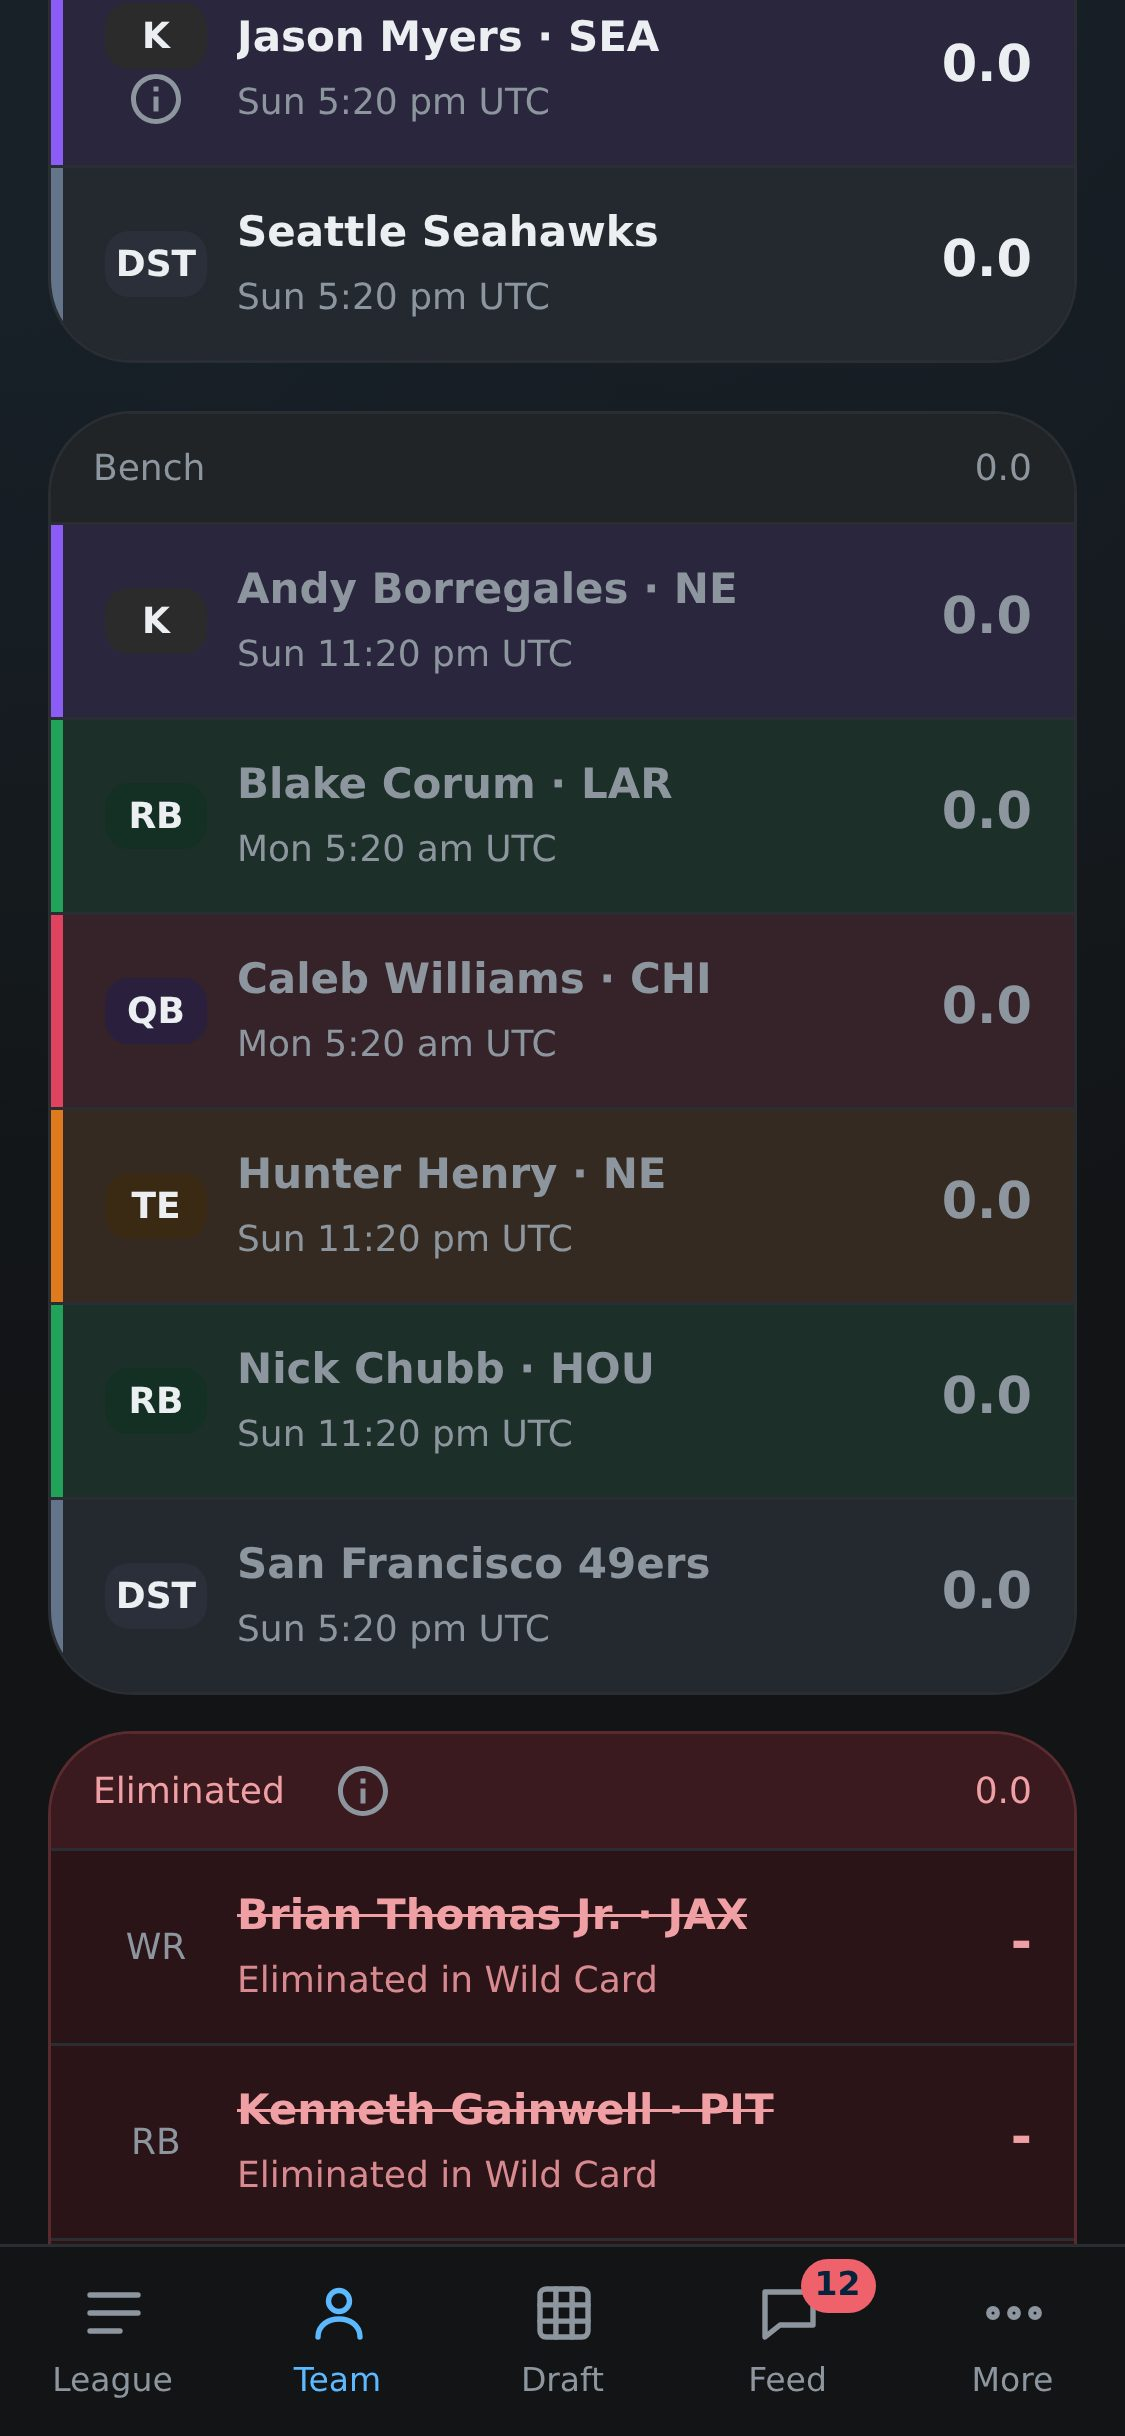
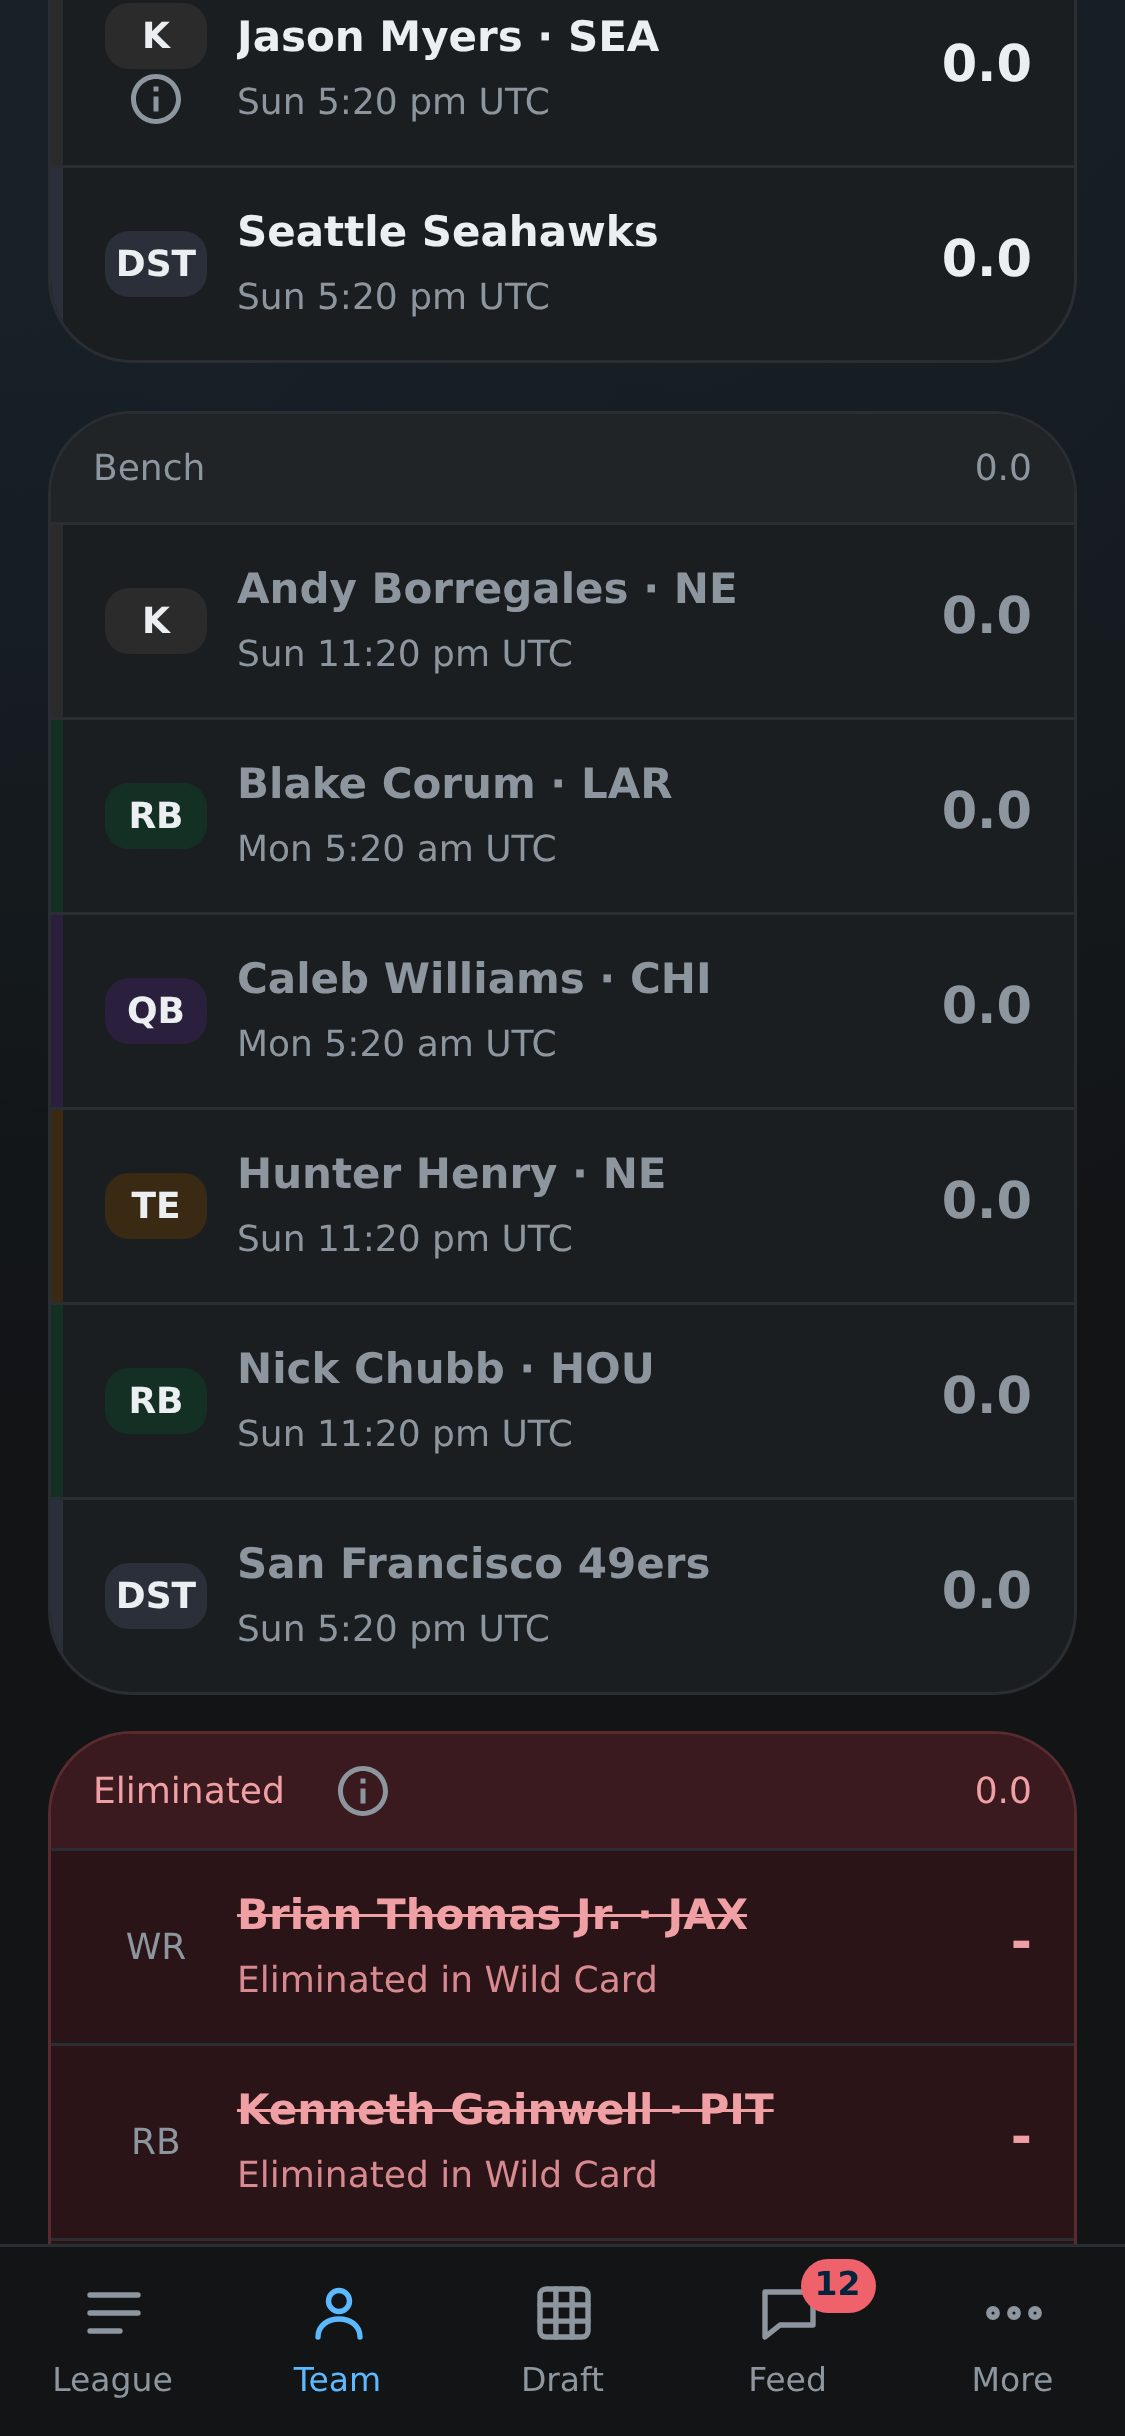
Team page: position boxes on every lineup row and a matching left edge
Empty starter slots show their position in the same coloured box as filled
rows, and each filled row gets a 4px left edge in its position's board
colour. Drops the row wash and bright edge tokens from the earlier try.

Changed region(s): [[0.0311, 0.2184, 0.9644, 0.6864], [0.0311, 0.0, 0.9644, 0.1248]]

diff --git a/frontend/src/components/team/PlayerRow.tsx b/frontend/src/components/team/PlayerRow.tsx
@@ -6,7 +6,7 @@ import ChangedScore from "../activity/ChangedScore";
 import SlotMarker from "../activity/SlotMarker";
 import HelpTip from "../common/HelpTip";
 import InjuryTag from "../common/InjuryTag";
-import { positionChipSx, positionEdgeColor, positionRowColor } from "../draft/positions";
+import { positionChipSx, positionColor } from "../draft/positions";
 import { formatPoints } from "../league/standingsView";
 import { nameWithTeam, playerDetail, type RowState, rowState } from "./lineupView";
 
@@ -55,7 +55,6 @@ const PlayerRow = ({
   const colors = COLORS[state];
   const muted = bench && state === "ready";
   const eliminated = state === "eliminated";
-  const tint = player && !eliminated ? positionRowColor(player.position) : "transparent";
   return (
     <Box component="li" sx={{ borderTop: `1px solid ${tokens.border}` }}>
       <Box
@@ -63,8 +62,8 @@ const PlayerRow = ({
           position: "relative",
           display: "flex",
           alignItems: "center",
-          bgcolor: eliminated ? tokens.dangerSurface : tint,
-          borderLeft: `4px solid ${player && !eliminated ? positionEdgeColor(player.position) : "transparent"}`,
+          bgcolor: eliminated ? tokens.dangerSurface : "transparent",
+          borderLeft: `4px solid ${player && !eliminated ? positionColor(player.position) : "transparent"}`,
         }}
       >
         <ButtonBase
@@ -103,8 +102,8 @@ const PlayerRow = ({
               fontSize: 12,
               textAlign: "center",
               color: player ? colors.label : tokens.muted,
-              ...(player && !eliminated
-                ? { ...positionChipSx(player.position), px: 0, py: 0.25 }
+              ...(!eliminated
+                ? { ...positionChipSx(player ? player.position : label), px: 0, py: 0.25 }
                 : {}),
             }}
           >
@@ -130,12 +129,7 @@ const PlayerRow = ({
               <Typography
                 noWrap
                 component="span"
-                sx={{
-                  display: "block",
-                  fontSize: 12,
-                  mt: 0.125,
-                  color: colors.detail,
-                }}
+                sx={{ display: "block", fontSize: 12, mt: 0.125, color: colors.detail }}
               >
                 {playerDetail(player)}
               </Typography>

diff --git a/frontend/src/theme.ts b/frontend/src/theme.ts
@@ -52,18 +52,6 @@ interface Palette {
   posTE: string;
   posK: string;
   posDST: string;
-  rowQB: string;
-  edgeQB: string;
-  rowRB: string;
-  edgeRB: string;
-  rowWR: string;
-  edgeWR: string;
-  rowTE: string;
-  edgeTE: string;
-  rowK: string;
-  edgeK: string;
-  rowDST: string;
-  edgeDST: string;
 }
 
 /** The Claude Design mockup palette (#258, #297, #298): sky blue on graphite, or on white. */
@@ -103,18 +91,6 @@ export const palettes: Record<ThemeMode, Palette> = {
     posTE: "#3a2a14",
     posK: "#2b2b2b",
     posDST: "#2a2f3a",
-    rowQB: "#352329",
-    edgeQB: "#e0435f",
-    rowRB: "#1c2f28",
-    edgeRB: "#22a35a",
-    rowWR: "#1f2b3d",
-    edgeWR: "#3b82f6",
-    rowTE: "#352a21",
-    edgeTE: "#e07a1f",
-    rowK: "#2a263d",
-    edgeK: "#8b5cf6",
-    rowDST: "#24292f",
-    edgeDST: "#64748b",
   },
   light: {
     bg: "#ffffff",
@@ -151,18 +127,6 @@ export const palettes: Record<ThemeMode, Palette> = {
     posTE: "#f8eadb",
     posK: "#e9eaec",
     posDST: "#e4e8ee",
-    rowQB: "#f0e4e9",
-    edgeQB: "#c2334d",
-    rowRB: "#e0ebe8",
-    edgeRB: "#177a42",
-    rowWR: "#e1e8f5",
-    edgeWR: "#2158d6",
-    rowTE: "#ede7e2",
-    edgeTE: "#a84d08",
-    rowK: "#e8e4f5",
-    edgeK: "#7231d8",
-    rowDST: "#e4e8eb",
-    edgeDST: "#475569",
   },
 };
 

diff --git a/frontend/src/components/draft/positions.ts b/frontend/src/components/draft/positions.ts
@@ -22,30 +22,3 @@ export const positionChipSx = (position: string | null | undefined) => ({
   px: 0.75,
   fontWeight: 600,
 });
-
-const ROW_COLORS: Record<string, string> = {
-  QB: tokens.rowQB,
-  RB: tokens.rowRB,
-  WR: tokens.rowWR,
-  TE: tokens.rowTE,
-  K: tokens.rowK,
-  DST: tokens.rowDST,
-  DEF: tokens.rowDST,
-};
-
-const EDGE_COLORS: Record<string, string> = {
-  QB: tokens.edgeQB,
-  RB: tokens.edgeRB,
-  WR: tokens.edgeWR,
-  TE: tokens.edgeTE,
-  K: tokens.edgeK,
-  DST: tokens.edgeDST,
-  DEF: tokens.edgeDST,
-};
-
-/** A Team page lineup row's light position wash; `positionEdgeColor` is its solid left edge (#527). */
-export const positionRowColor = (position: string | null | undefined): string =>
-  ROW_COLORS[(position ?? "").toUpperCase()] ?? "transparent";
-
-export const positionEdgeColor = (position: string | null | undefined): string =>
-  EDGE_COLORS[(position ?? "").toUpperCase()] ?? "transparent";

diff --git a/frontend/src/theme.test.ts b/frontend/src/theme.test.ts
@@ -19,18 +19,6 @@ type Key = keyof typeof palettes.dark;
 // [foreground, background, minimum]: 4.5 for body text, 3 for large text and UI components.
 const PAIRS: [Key, Key, number][] = [
   ["accentInk", "accentFill", 4.5],
-  ["text", "rowQB", 4.5],
-  ["muted", "rowQB", 4.5],
-  ["text", "rowRB", 4.5],
-  ["muted", "rowRB", 4.5],
-  ["text", "rowWR", 4.5],
-  ["muted", "rowWR", 4.5],
-  ["text", "rowTE", 4.5],
-  ["muted", "rowTE", 4.5],
-  ["text", "rowK", 4.5],
-  ["muted", "rowK", 4.5],
-  ["text", "rowDST", 4.5],
-  ["muted", "rowDST", 4.5],
   ["accent", "bg", 4.5],
   ["accent", "surface", 4.5],
   ["accent", "accentSurface", 4.5],
